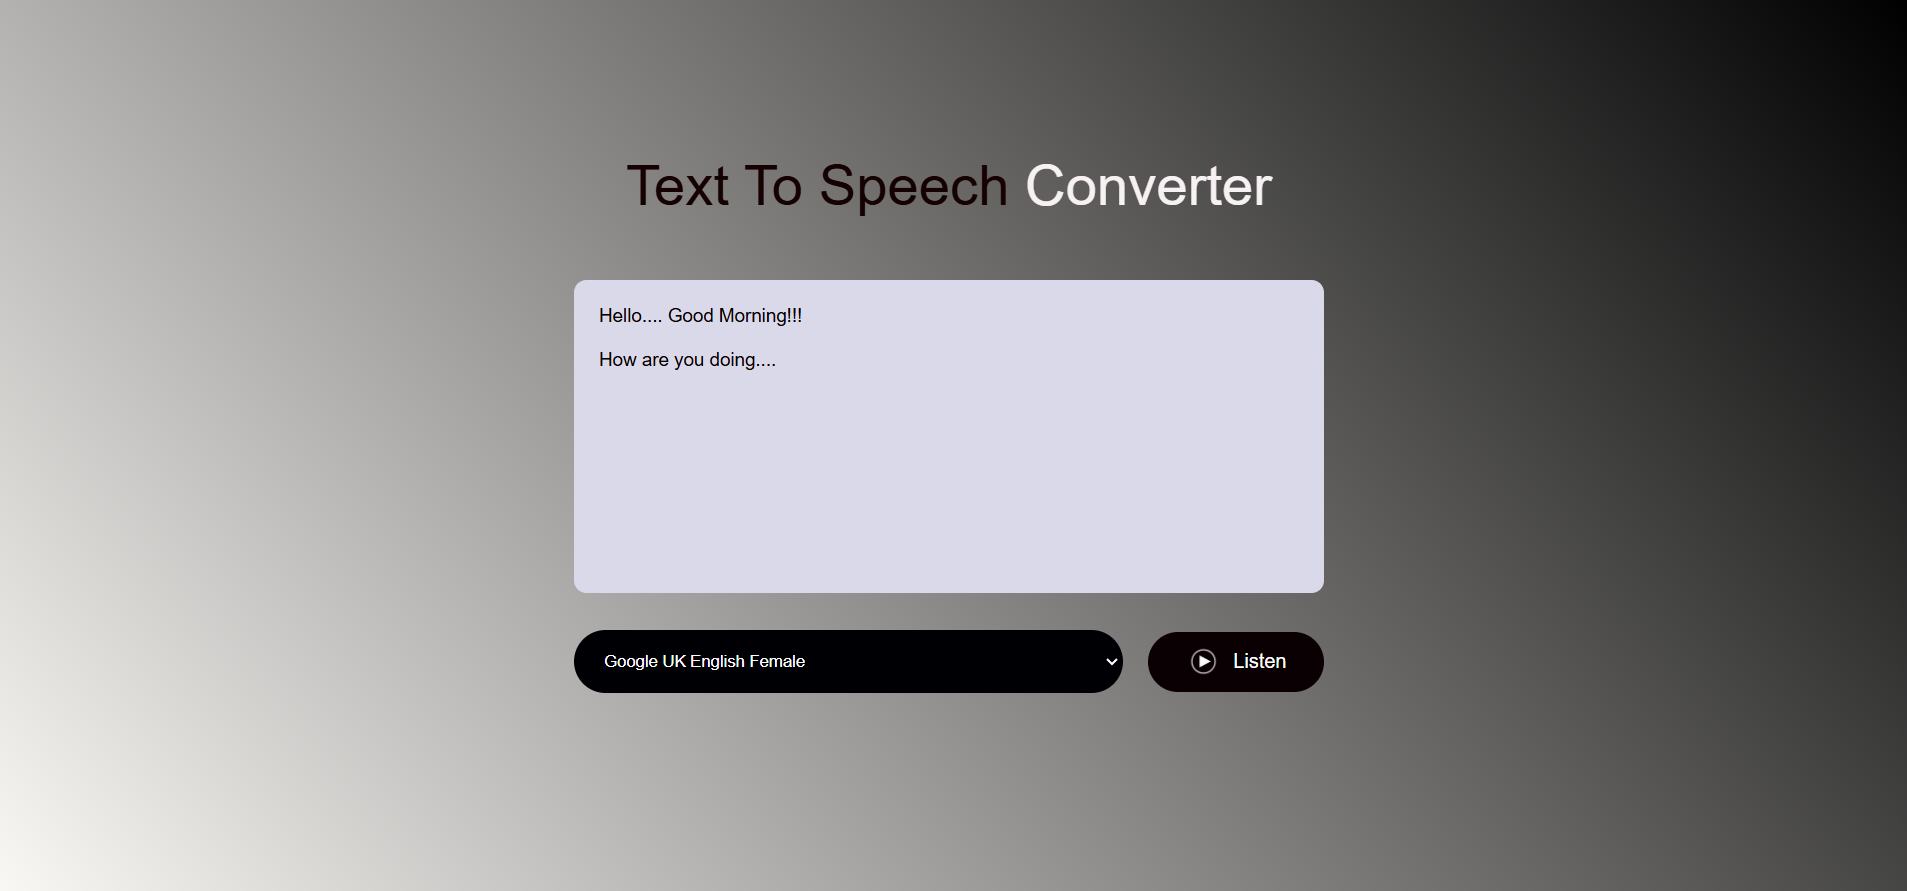
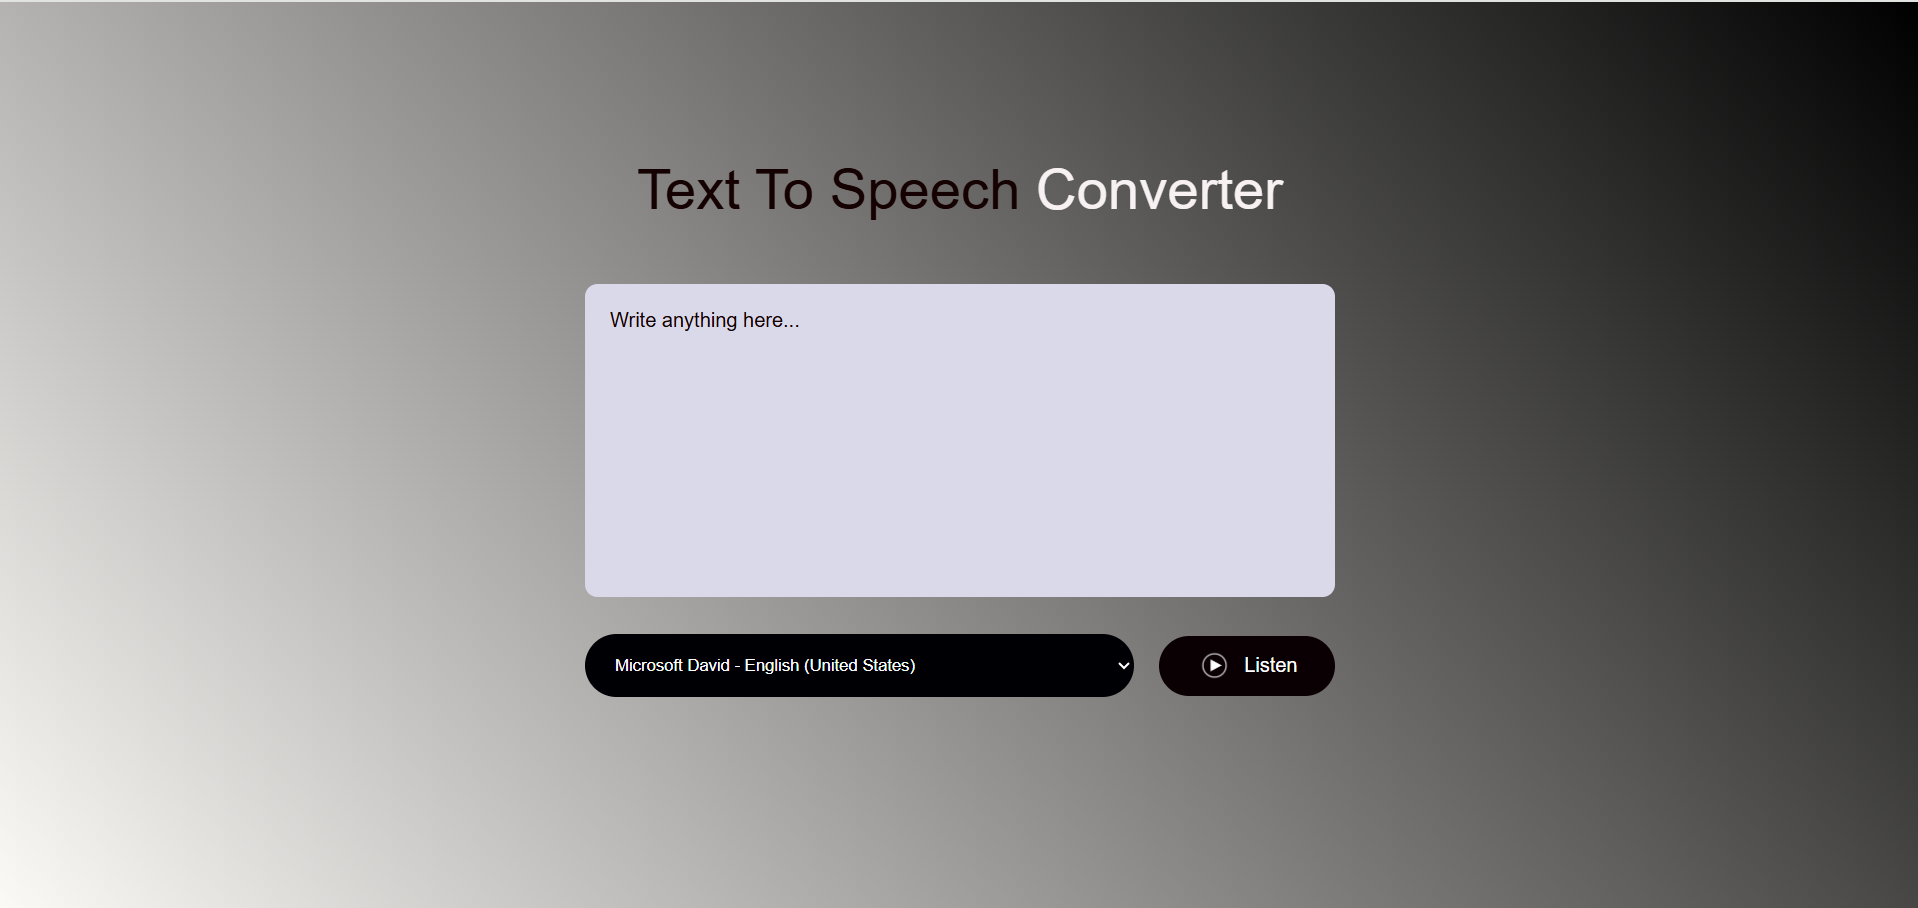
updated projects section

Changed region(s): [[0.2784, 0.697, 0.7116, 0.7879], [0.2784, 0.3333, 0.7116, 0.6667], [0.3094, 0.1818, 0.6807, 0.2424]]

diff --git a/src/components/Projects.jsx b/src/components/Projects.jsx
@@ -95,6 +95,24 @@ const Projects = () => {
       github: 'https://github.com/Sivananthini164/Piano_keyboard',
       demo: 'https://sivananthini164.github.io/Piano_keyboard/',
       tags: ['web', 'music']
+    },
+     {
+      id: 11,
+      title: 'Text to Speech Converter',
+      description: 'A simple and elegant Text to Speech (TTS) web application',
+      image: './assets/converter.png',
+      github: 'https://github.com/Sivananthini164/Converter',
+      demo: 'https://sivananthini164.github.io/Converter/',
+      tags: ['web', 'frontend']
+    },
+     {
+      id: 12,
+      title: 'Quote Generator',
+      description: 'Fetches a random quote from an API ',
+      image: './assets/quote.png',
+      github: 'https://github.com/Sivananthini164/Quote-',
+      demo: 'https://sivananthini164.github.io/Quote-/',
+      tags: ['web', 'frontend']
     }
   ];
 

diff --git a/src/components/Hero.jsx b/src/components/Hero.jsx
@@ -64,10 +64,10 @@ const Hero = () => {
       id="profile"
       className="relative min-h-screen flex items-center justify-center overflow-hidden pt-16"
     >
-      {/* 🔥 Background Video */}
+      {/*  Background Video */}
       <video
         className="absolute inset-0 w-full h-full object-cover -z-20"
-        src="/assets/background.mp4"   // <-- place your video in public/assets
+        src="/assets/background.mp4" 
         autoPlay
         loop
         muted
